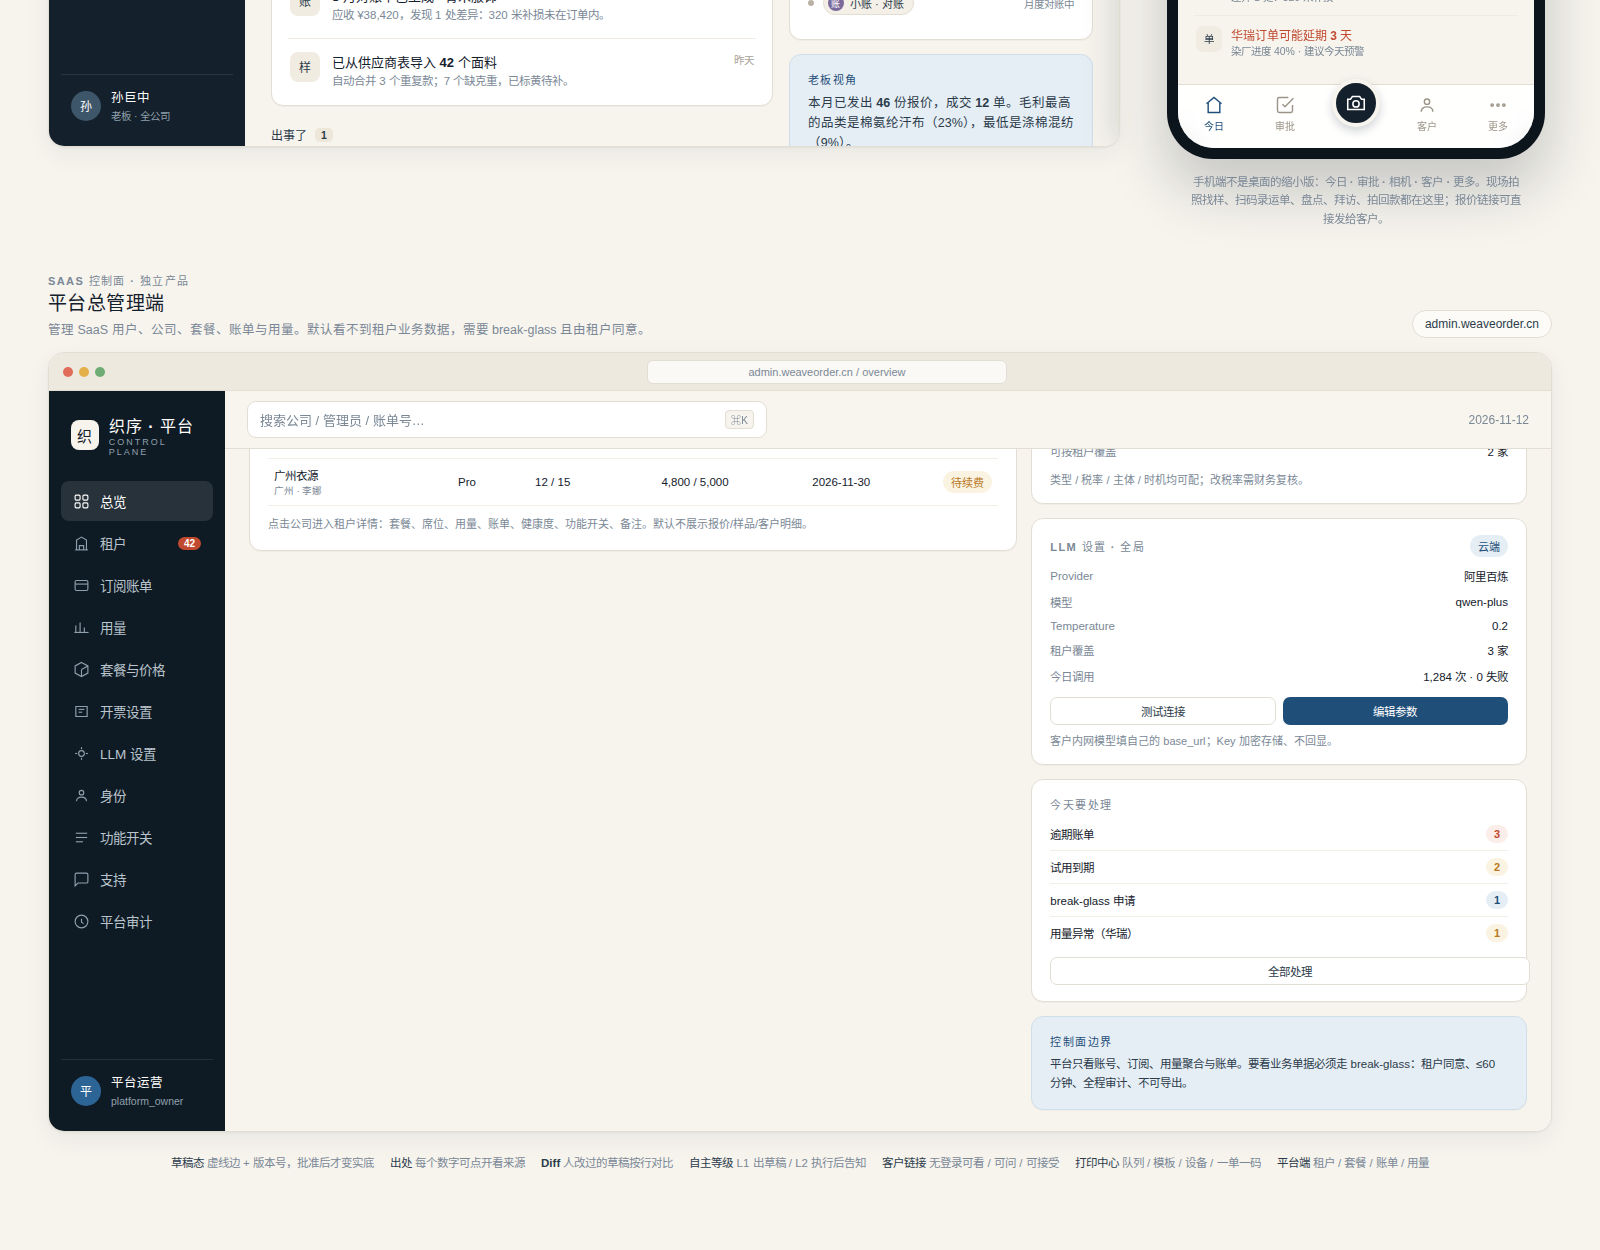
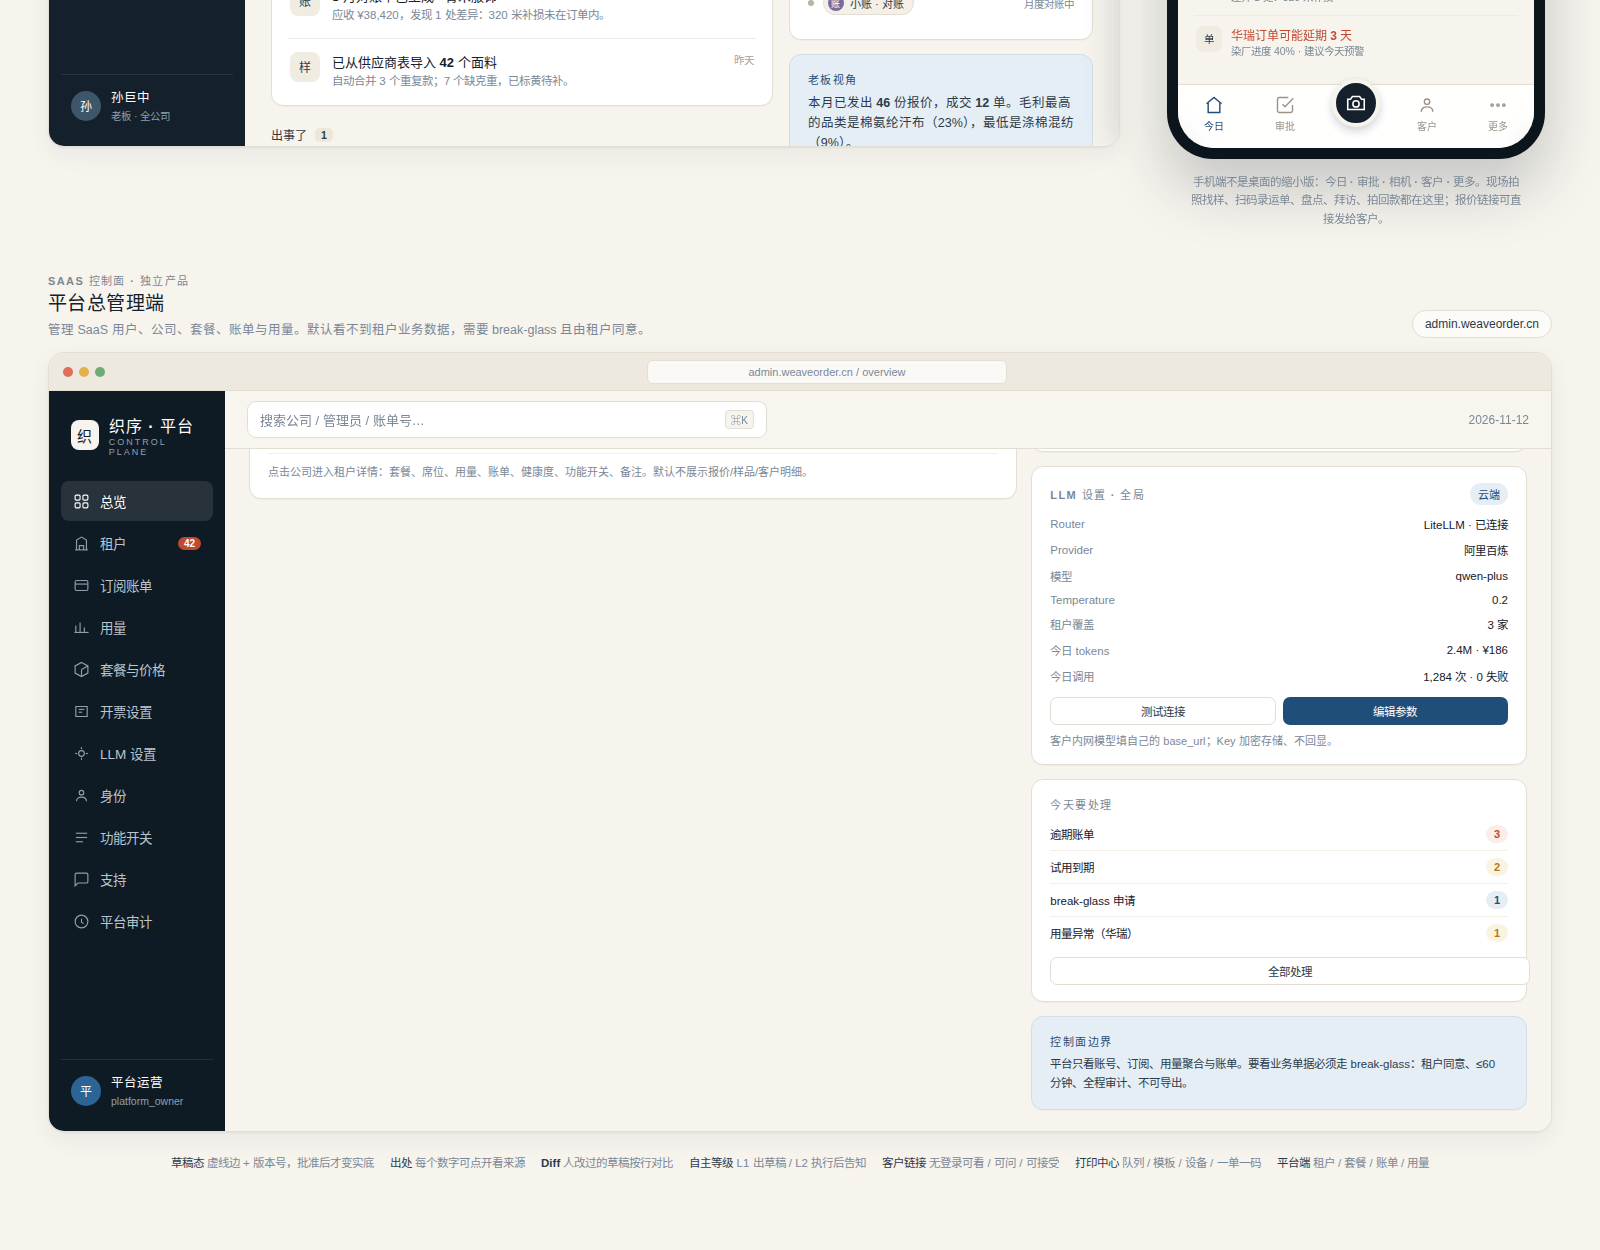
docs(design): v1.6 LLM Router/token 计费、Casdoor 落地、Chat→Patch 改稿 (WAN-75)
- LLM：接 LiteLLM 等开源 Router，按租户配模型；token 输入/输出/缓存全程记账，接入账单与毛利
- Casdoor 落地 sso.wnbgj.com：OIDC 参数、回调、claims、MFA、组织映射与施工清单
- 改稿：表单改值 + Chat 改意图 + 统一 Patch；Chat 不直接写账本，版本/重算/审计/升级
- 隔离升级包价格改为总后台合同配置；数据模型、指标、分期、拍板项同步
- 原型新增变更单 UI、Router/token 卡、Casdoor 端点；新增 13-revision-chat 截图

diff --git a/prototype/product-design.html b/prototype/product-design.html
@@ -110,7 +110,7 @@
   .badge.bad{background:var(--verm-soft);color:var(--verm)}
   .badge.good{background:var(--moss-soft);color:var(--moss)}
   .badge.gray{background:#F1EEE7;color:var(--ink2)}
-  .agent{display:inline-flex;align-items:center;gap:6px;font-size:11px;color:var(--ink2);background:#F4F0E8;border:1px solid var(--line);border-radius:999px;padding:3px 9px 3px 4px}
+  .agent{display:inline-flex;align-items:center;gap:6px;font-size:11px;color:var(--ink2);background:#F4F0E8;border:1px solid var(--line);border-radius:999px;padding:3px 9px 3px 4px;white-space:nowrap;flex:none}
   .agent i{width:16px;height:16px;border-radius:50%;display:grid;place-items:center;font-size:9px;color:#fff;font-style:normal}
   .agent.a1 i{background:var(--indigo)}.agent.a2 i{background:#6E7F6A}.agent.a3 i{background:#A86A4A}.agent.a4 i{background:#7A6A9B}
   .btn{all:unset;cursor:pointer;display:inline-flex;align-items:center;justify-content:center;gap:6px;border-radius:8px;font-size:12.5px;font-weight:600;padding:8px 14px;transition:.15s;border:1px solid transparent}
@@ -450,7 +450,7 @@
     </div>
     <div class="page-meta">
       <span class="pill"><span class="dot"></span>可点击：左侧导航 / 审批 / 手机 Tab</span>
-      <span class="pill">v1.5 · 2026-11-12</span>
+      <span class="pill">v1.6 · 2026-11-12</span>
     </div>
   </div>
 
@@ -728,6 +728,39 @@
                           <button class="btn primary" data-approve>批准并生成报价单</button>
                         </div>
                       </div>
+
+                      <div id="revisionChat" style="margin-top:14px;padding-top:12px;border-top:1px dashed #E3DED4">
+                        <div class="between">
+                          <div class="row" style="gap:6px">
+                            <span class="agent a1"><i>织</i>小织</span>
+                            <span class="tiny muted">表单改值，也可以直接说：「数量改 800 米，交期 7 天」</span>
+                          </div>
+                          <span class="badge">Chat → Patch</span>
+                        </div>
+                        <div class="diff" style="margin-top:8px">
+                          <div class="dh"><span>变更单 · 3 处 · 内核重算</span><span>来自对话</span></div>
+                          <table>
+                            <tr><td class="lbl">数量</td><td><span class="old num">500 米</span> → <span class="new num">800 米</span></td></tr>
+                            <tr><td class="lbl">交期</td><td><span class="old">未确认</span> → <span class="new">7 天</span></td></tr>
+                            <tr><td class="lbl">总额</td><td><span class="old num">¥7,600</span> → <span class="new num">¥12,160</span></td></tr>
+                          </table>
+                          <div style="display:flex;gap:8px;padding:8px 12px;border-top:1px solid #EAF1F6;background:#fff">
+                            <button class="btn primary sm">应用修改</button>
+                            <button class="btn ghost sm">放弃</button>
+                            <span class="tiny muted" style="margin-left:auto;align-self:center">不会直接改账本，应用后才生成 v3</span>
+                          </div>
+                        </div>
+                        <div style="display:flex;gap:8px;margin-top:8px">
+                          <input placeholder="和小织说怎么改… 例如「按上次成交价 15.0」" style="flex:1;border:1px solid var(--line);border-radius:8px;padding:9px 11px;font-size:12px;font-family:inherit;background:var(--surface)" />
+                          <button class="btn primary sm" data-send-revise>发送</button>
+                        </div>
+                        <div class="row" style="gap:6px;margin-top:8px">
+                          <button class="btn ghost sm">改数量</button>
+                          <button class="btn ghost sm">改交期</button>
+                          <button class="btn ghost sm">换样品</button>
+                          <span class="tiny muted" style="margin-left:auto">单个字段直接点上方明细改更快</span>
+                        </div>
+                      </div>
                     </div>
                   </div>
 
@@ -957,7 +990,7 @@
                       <span class="badge good">共享库 + RLS</span>
                     </div>
                     <div class="between" style="font-size:11.5px;padding:5px 0"><span class="muted">数据区域</span><span>杭州（默认）</span></div>
-                    <div class="between" style="font-size:11.5px;padding:5px 0"><span class="muted">登录</span><span>Casdoor · 账号/微信</span></div>
+                    <div class="between" style="font-size:11.5px;padding:5px 0"><span class="muted">登录</span><span>Casdoor · sso.wnbgj.com</span></div>
                     <div class="between" style="font-size:11.5px;padding:5px 0"><span class="muted">企业 SSO</span><span>未开启</span></div>
                     <div class="between" style="font-size:11.5px;padding:5px 0"><span class="muted">LLM</span><span>云端 · 零留存</span></div>
                     <div class="between" style="font-size:11.5px;padding:5px 0"><span class="muted">敏感字段</span><span>出网前脱敏</span></div>
@@ -1505,10 +1538,12 @@
                     <div class="eyebrow">LLM 设置 · 全局</div>
                     <span class="badge">云端</span>
                   </div>
+                  <div class="between" style="font-size:11.5px;padding:5px 0"><span class="muted">Router</span><span>LiteLLM · 已连接</span></div>
                   <div class="between" style="font-size:11.5px;padding:5px 0"><span class="muted">Provider</span><span>阿里百炼</span></div>
                   <div class="between" style="font-size:11.5px;padding:5px 0"><span class="muted">模型</span><span>qwen-plus</span></div>
                   <div class="between" style="font-size:11.5px;padding:5px 0"><span class="muted">Temperature</span><span class="num">0.2</span></div>
                   <div class="between" style="font-size:11.5px;padding:5px 0"><span class="muted">租户覆盖</span><span class="num">3 家</span></div>
+                  <div class="between" style="font-size:11.5px;padding:5px 0"><span class="muted">今日 tokens</span><span class="num">2.4M · ¥186</span></div>
                   <div class="between" style="font-size:11.5px;padding:5px 0"><span class="muted">今日调用</span><span class="num">1,284 次 · 0 失败</span></div>
                   <div class="between" style="margin-top:8px;gap:7px">
                     <button class="btn ghost sm" style="flex:1">测试连接</button>
@@ -1686,6 +1721,7 @@
 
   // provenance click demo
   $$('.prov').forEach(p => p.addEventListener('click', () => toast(p.textContent + ' · 原型演示：此处打开来源侧栏')));
+  $$('[data-send-revise]').forEach(b => b.addEventListener('click', () => toast('已生成变更单 · 应用后生成新版本并写审计')));
 
   // deep link after listeners are wired
   if (location.hash) showScreen(location.hash.slice(1));
